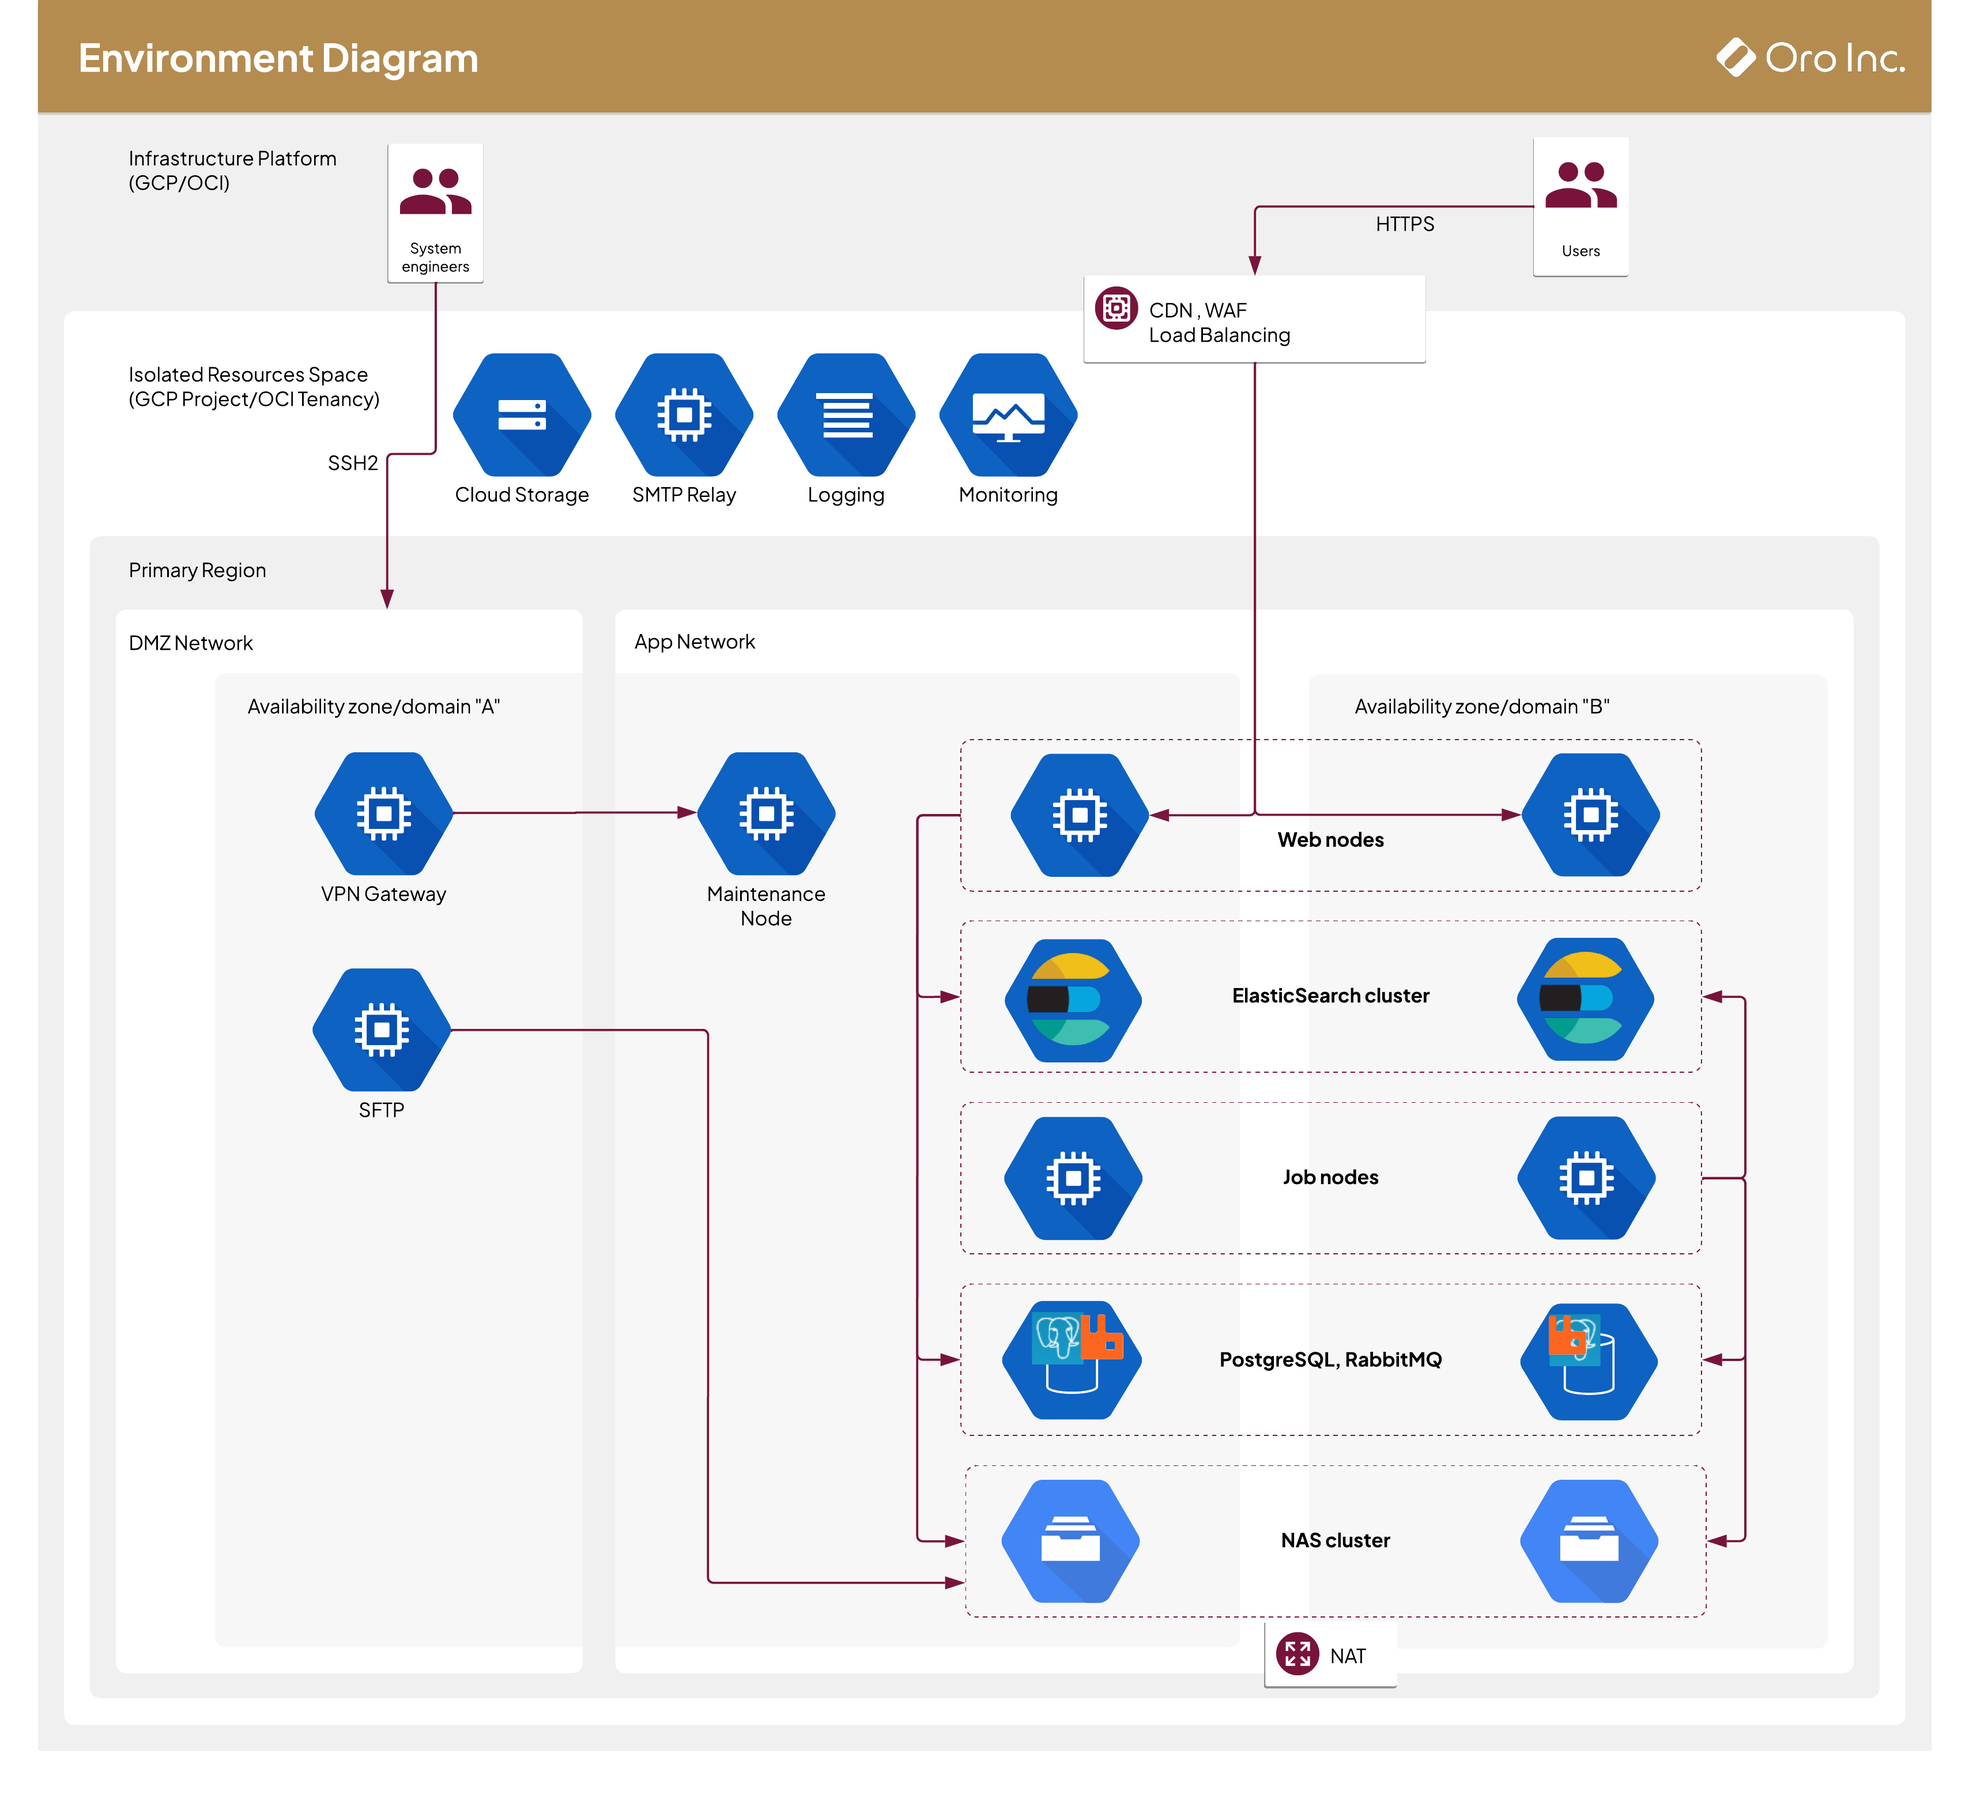
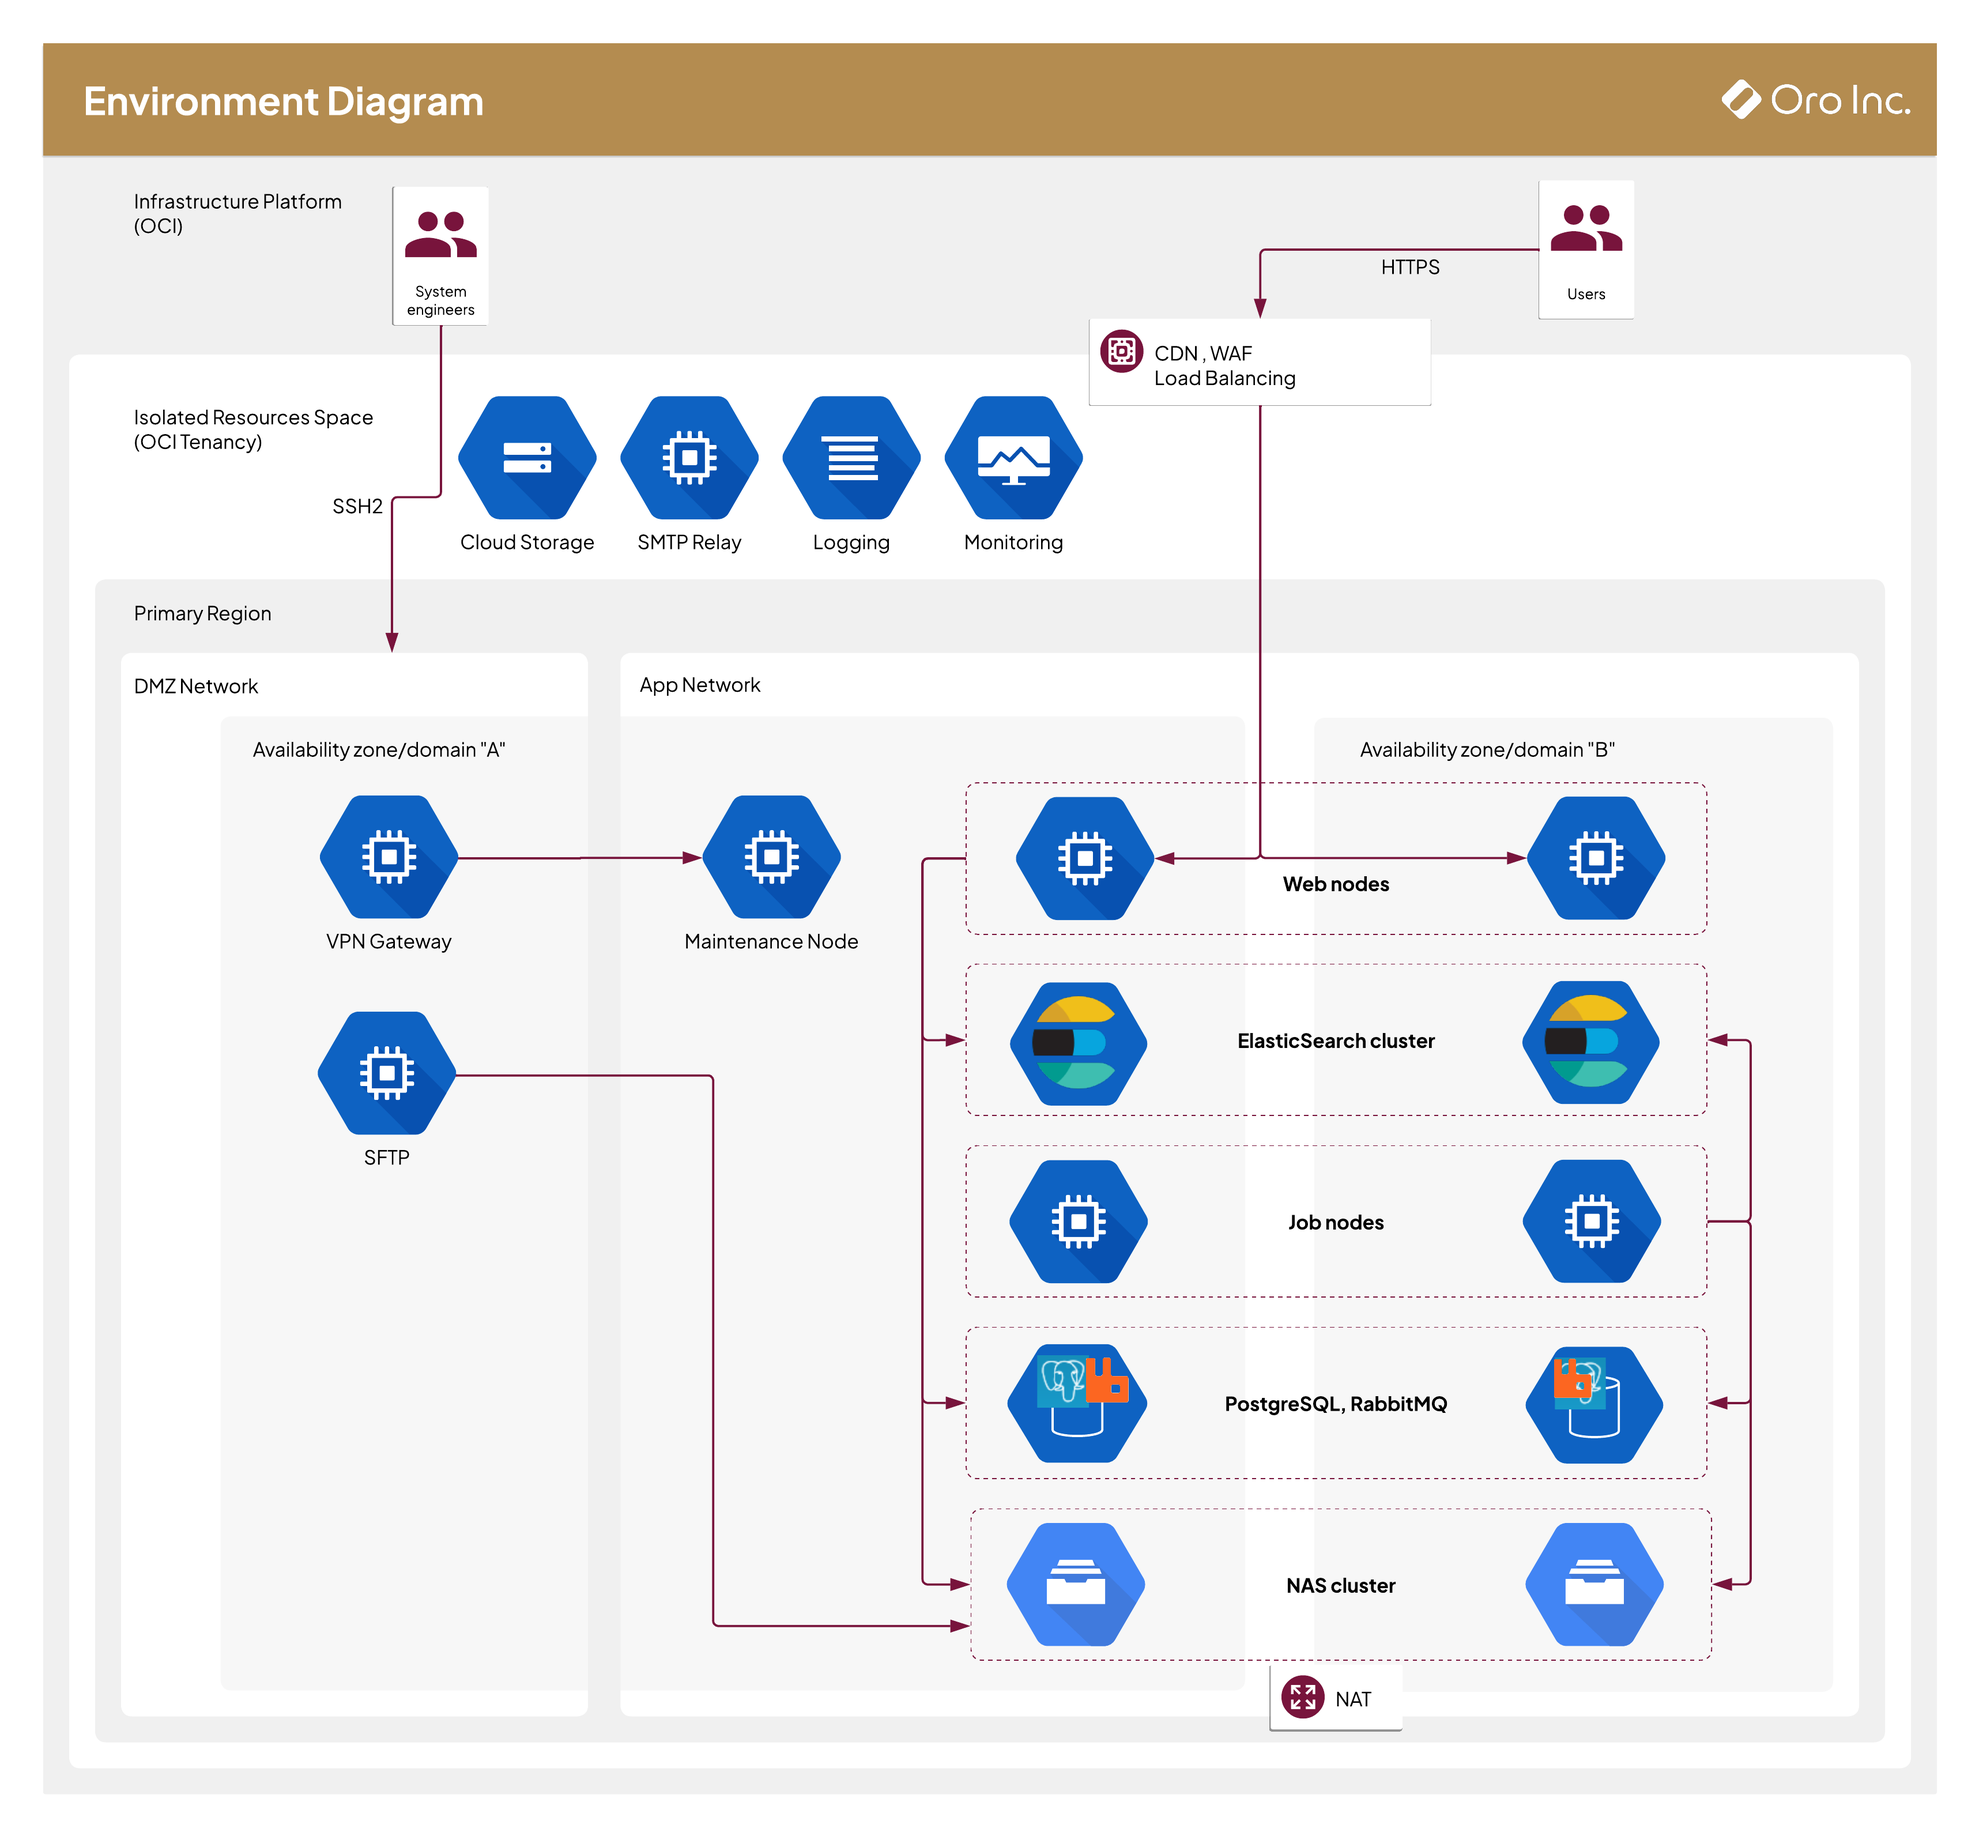
DOC-2549-2052: Remove GCP from Cloud Guides (m) (#48019)
* DOC-2549: Update OroCloud overview documentation page

* DOC-2549: Update OroCloud overview documentation page

diff --git a/cloud/security/index.rst b/cloud/security/index.rst
@@ -32,20 +32,19 @@ All nodes that run Oro application components and store production data reside i
 
 The following rules apply to the incoming traffic in the application subnet.
 
+
 Cloudflare
 ~~~~~~~~~~
 
-* There are no public IP addresses accepting any incoming traffic. Web servers are connected to Cloudflare using an encrypted tunnel using a lightweight daemon (``cloudflared``).
+* Web servers are connected to Cloudflare using an encrypted tunnel using a lightweight daemon (``cloudflared``).
 * The Oro application web server accepts connections only from the Cloudflare tunnel via port 80 over HTTP and port 8080 over the WebSocket connection.
 * Cloudflare terminates any HTTPS traffic.
-
-The following network rules are used for the CDN:
-
 * Nodes in the application subnet accept a connection to the service-specific ports that originated exclusively from the application subnet.
 * The outgoing public traffic is remapped by the NAT node with a public IP address. This public IP address may be added to any external whitelists and used to control the outgoing traffic from the application subnet.
 * The NAT node does not accept any incoming connections to the interface with the public IP address.
 * Only the bridge host is allowed to connect to nodes that reside in the application subnet. The bridge host has two network interfaces; one is connected to the application subnet, the other one is linked to the maintenance DMZ subnet.
 * To access the application subnet and perform application maintenance, the OroCloud support team uses the connection via the Secure Shell (SSH) protocol.
+* The Backup IP is optional and used for incoming HTTPS traffic in case of Cloudflare prolonged outage.
 
 Maintenance DMZ Subnet
 ^^^^^^^^^^^^^^^^^^^^^^

diff --git a/cloud/overview.rst b/cloud/overview.rst
@@ -29,7 +29,7 @@ With OroCloud, you get the following package of services:
 The following benefits come along:
 
 * Ease of use --- With OroCloud, you can focus on your business and save time and money on the in-house infrastructure technical support. OroCloud manages the application environment as part of the service, but we also offer a customized application maintenance service
-* Security --- OroCloud has been |PCI-DSS certified| since December 2017 and is scheduled for yearly reassessment and renewal. This means that every resource that the OroCloud environment uses -- the servers, network, software, and configuration -- comply with our IaaS provider's PCI DSS shared responsibility model.
+* Security --- OroCloud has been |PCI-DSS certified| since December 2017 and is scheduled for yearly reassessment and renewal. This means that every resource that the OroCloud environment uses -- the servers, network, software, and configuration -- comply with |PCI Data Security Standards|.
 * Reliability --- OroCloud is based on the highly reliable cloud platform and supports high-availability and fault-tolerant deployments out of the box and comes with 24x7 technical support for P1 issues.
 
 **What’s Next**

diff --git a/cloud/architecture/index.rst b/cloud/architecture/index.rst
@@ -50,7 +50,7 @@ CDN and Load Balancing
 
 The content delivery network is the geographically distributed network of caching proxy servers that help improve response time for static content and provide high availability for the service.
 
-Load balancing is the process of distributing incoming traffic among web servers to improve service availability and performance. OroCloud provides CDN and load balancing through Cloudflare.
+Load balancing is the process of distributing incoming traffic among web servers to improve service availability and performance.
 
 Cloudflare
 ~~~~~~~~~~
@@ -112,7 +112,7 @@ See |Redis Sentinel Documentation| for more information.
 File Storage
 ~~~~~~~~~~~~
 
-OroCloud environments are configured with a |GridFS| clustered file system to store application files related to user data (attachments, images, documents).
+OroCloud environments are configured with a |JuiceFS| clustered file system to store application files related to user data (attachments, images, documents).
 
 Backups and Restore
 ^^^^^^^^^^^^^^^^^^^

diff --git a/cloud/security/shared-responsibility-model.rst b/cloud/security/shared-responsibility-model.rst
@@ -3,7 +3,7 @@
 Understanding the Shared Responsibility Model in PCI DSS v4.0.1
 ===============================================================
 
-As a service provider, Oro Inc. enables its customers to achieve PCI DSS v4.0.1 compliance by delivering secure hosting and application services through Oracle Cloud Infrastructure (OCI), our Infrastructure-as-a-Service (IaaS) platform.
+As a service provider, Oro Inc. enables its customers to achieve PCI DSS v4.0.1 compliance by delivering secure hosting and application services through the Oracle Cloud Infrastructure (OCI) Infrastructure-as-a-Service (IaaS) platform.
 
 To support a clear division of responsibilities, Oro Inc. formally defines its Shared Responsibility Model in the accompanying |Shared Responsibility Matrix|.
 
@@ -194,4 +194,3 @@ Please review this reference along with this guide to better understand how moni
 
 .. include:: /include/include-links-cloud.rst
    :start-after: begin
-

diff --git a/include/include-links-cloud.rst b/include/include-links-cloud.rst
@@ -81,7 +81,7 @@ Links (Cloud)
 
 .. |region| raw:: html
 
-   <a href="https://cloud.google.com/compute/docs/regions-zones" target="_blank">region</a>
+   <a href="https://docs.oracle.com/en-us/iaas/Content/General/Concepts/regions.htm" target="_blank">region</a>
 
 .. |GCP Data center locations| raw:: html
 
@@ -275,3 +275,10 @@ Links (Cloud)
 
    <a href="https://blackfire.io/docs/introduction" target="_blank">Blackfire documentation</a>
 
+.. |PCI Data Security Standards| raw:: html
+
+   <a href="https://www.pcisecuritystandards.org/standards/pci-dss/" target="_blank">PCI Data Security Standards</a>
+
+.. |JuiceFS| raw:: html
+
+   <a href="https://juicefs.com/en/" target="_blank">JuiceFS</a>
